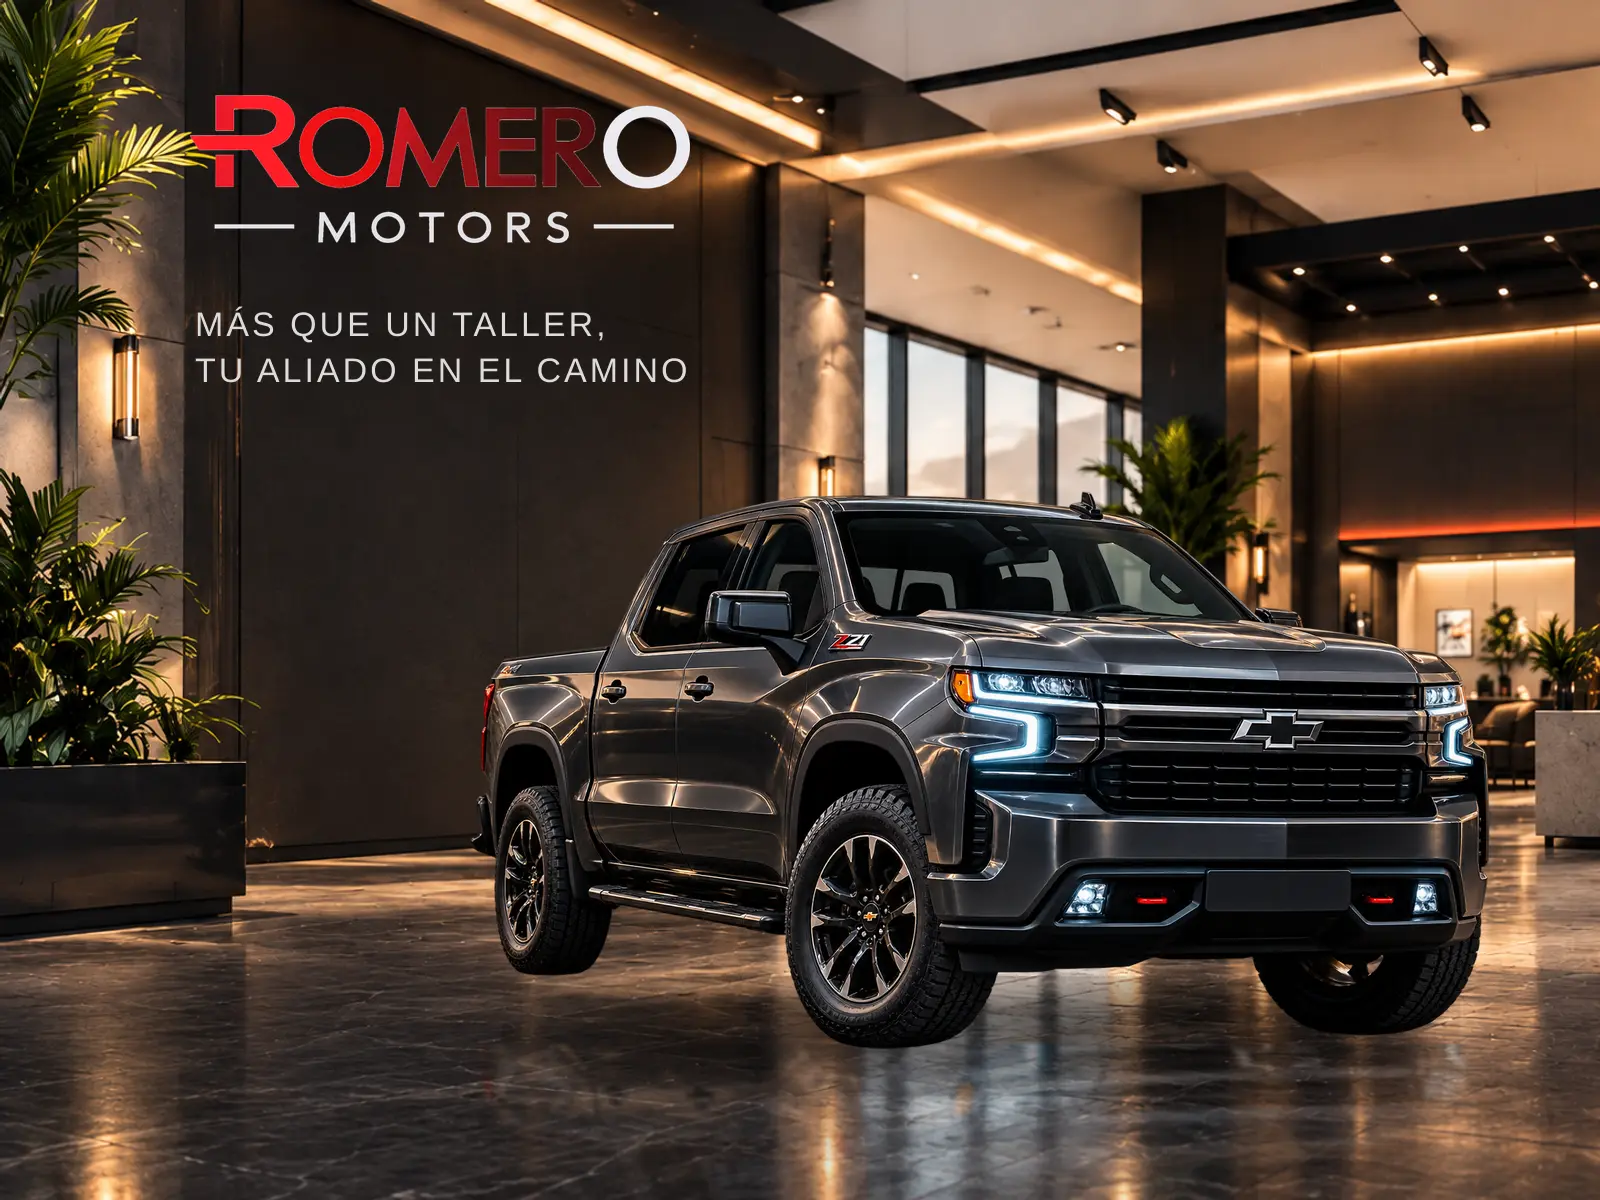
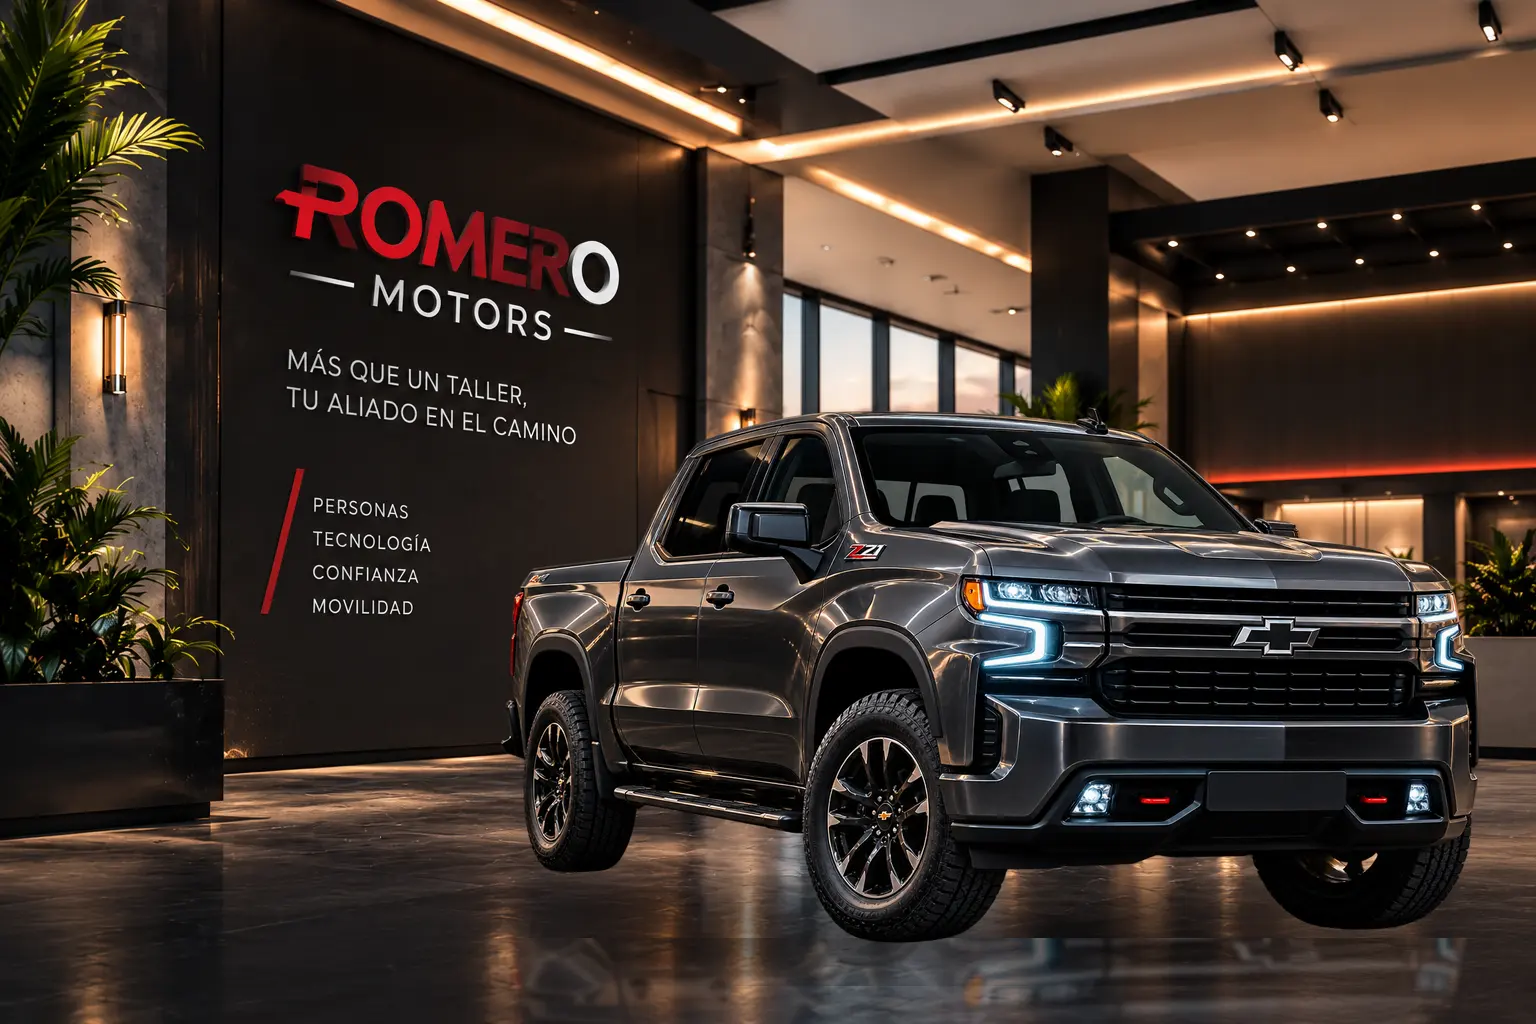
feat(login): el vestíbulo rotulado de origen, con la camioneta encima
La entrega nueva trae la pared YA rotulada —nombre, lema y la lista de
conceptos— con la inclinación y la luz correctas. Sustituye al montaje
anterior, que dibujaba el lema con SVG sobre un vestíbulo vacío: funcionaba,
pero era texto plano pegado sobre una pared en perspectiva y se notaba.

El guion de composición se reduce a lo que sigue haciendo falta: poner el
vehículo, con su sombra de contacto y su reflejo. Un recorte pegado sobre
un fondo flota, y se nota antes de saber por qué.

── Fuera la banda de conceptos del HTML ───────────────────────────────────

La pared dice ahora «Personas · Tecnología · Confianza · Movilidad», y la
portada los repetía debajo con subtítulo. Dos problemas en uno: decía lo
mismo dos veces en la misma pantalla, y caía justo encima de la lista
pintada —el bloque de texto está anclado abajo y la pared no se mueve con
él, así que a 800 px de alto se solapaban—.

Gana la pared: ahí los cuatro nombres pertenecen a la escena y no compiten
con nada. El lado izquierdo se queda con el filete, el titular, el párrafo
y la firma, que es lo que no está ya dicho en la fotografía.

Claude-Session: https://claude.ai/code/session_01KUDAQwREnaamk6HaP9iiAy

diff --git a/src/app/login/page.tsx b/src/app/login/page.tsx
@@ -3,7 +3,6 @@ import Link from 'next/link';
 import {
   ArrowRight,
   ArrowUpRight,
-  Car,
   ChevronRight,
   ClipboardList,
   Eye,
@@ -13,9 +12,7 @@ import {
   MessageSquareHeart,
   ShieldCheck,
   ShoppingCart,
-  Sparkles,
   User,
-  Users,
   Wrench,
 } from 'lucide-react';
 import type { ReactNode } from 'react';
@@ -106,14 +103,6 @@ export default function LoginPage() {
 /* ------------------------------------------------------------------ *
  * Izquierda: la empresa
  * ------------------------------------------------------------------ */
-
-/** Los cuatro conceptos de la guía de marca. */
-const CONCEPTS = [
-  { icon: <ShieldCheck />, label: 'Confianza', hint: 'en cada kilómetro' },
-  { icon: <Sparkles />, label: 'Tecnología', hint: 'que impulsa' },
-  { icon: <Users />, label: 'Personas', hint: 'que te escuchan' },
-  { icon: <Car />, label: 'Movilidad', hint: 'sin límites' },
-] as const;
 
 /**
  * Marfil cálido, no blanco puro.
@@ -206,45 +195,8 @@ function ShowcasePanel() {
           </p>
         </div>
 
-        {/*
-          La banda de conceptos. Deja de ser un pie de página funcional: más
-          aire entre bloques, el círculo fino y el subtítulo atenuado. La regla
-          de arriba se va —separaba dos cosas que son la misma composición.
-        */}
-        {/* Cuatro en fila solo cuando la COLUMNA da de sí. Con `xl:` —que mira
-            la ventana— a 1280 px la columna medía 730 y la fila salía 3 + 1,
-            que es lo que hace que una banda de marca parezca un pie de página
-            mal cerrado. */}
-        <ul className="mt-10 grid grid-cols-2 gap-x-6 gap-y-7 @3xl/hero:mt-14 @3xl/hero:flex @3xl/hero:flex-wrap @3xl/hero:gap-x-10">
-          {CONCEPTS.map(({ icon, label, hint }) => (
-            <li key={label} className="flex items-center gap-3.5">
-              <span
-                aria-hidden
-                className="grid size-14 shrink-0 place-items-center rounded-full border border-white/20 [&>svg]:size-[1.375rem]"
-                style={{ color: IVORY }}
-              >
-                {icon}
-              </span>
-              <span className="min-w-0 leading-tight">
-                <span
-                  className="block text-[0.9375rem] font-semibold uppercase tracking-[0.1em]"
-                  style={{ color: IVORY }}
-                >
-                  {label}
-                </span>
-                <span
-                  className="mt-1 block text-[0.8125rem]"
-                  style={{ color: 'rgb(248 244 236 / 0.70)' }}
-                >
-                  {hint}
-                </span>
-              </span>
-            </li>
-          ))}
-        </ul>
-
         <p
-          className="mt-10 flex items-center gap-3 text-[0.6875rem] font-medium uppercase tracking-[0.3em] xl:mt-12"
+          className="mt-12 flex items-center gap-3 text-[0.6875rem] font-medium uppercase tracking-[0.3em] xl:mt-14"
           style={{ color: 'rgb(248 244 236 / 0.60)' }}
         >
           <span aria-hidden className="h-px w-8 bg-romero-500" />
